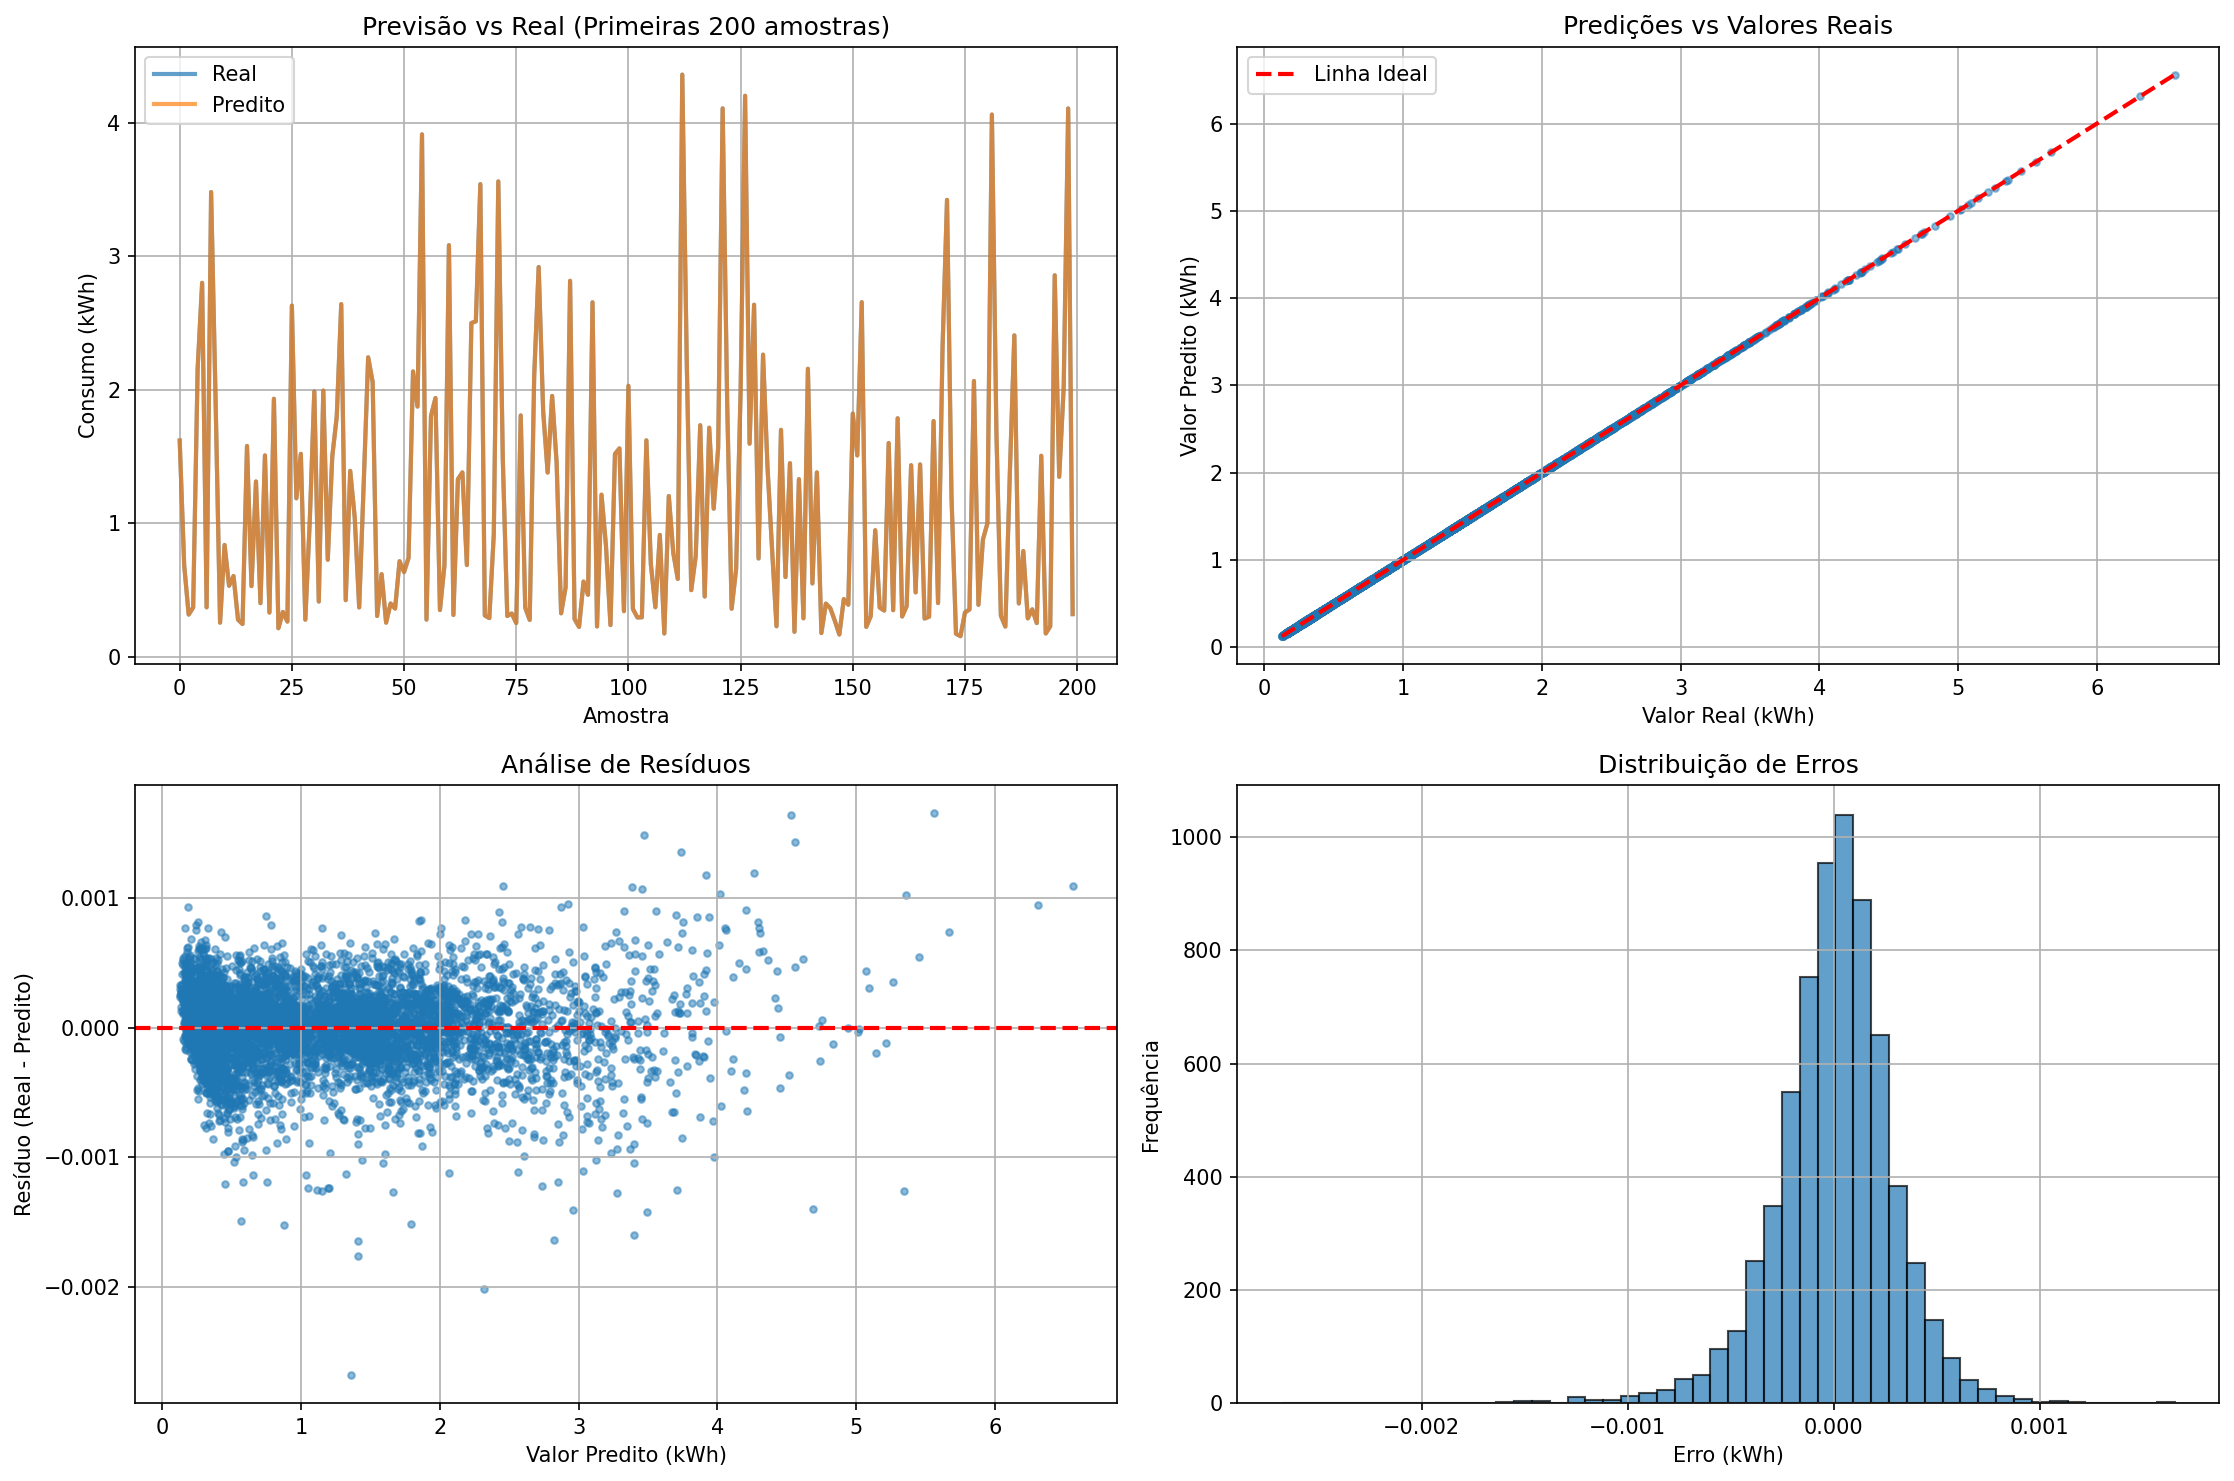
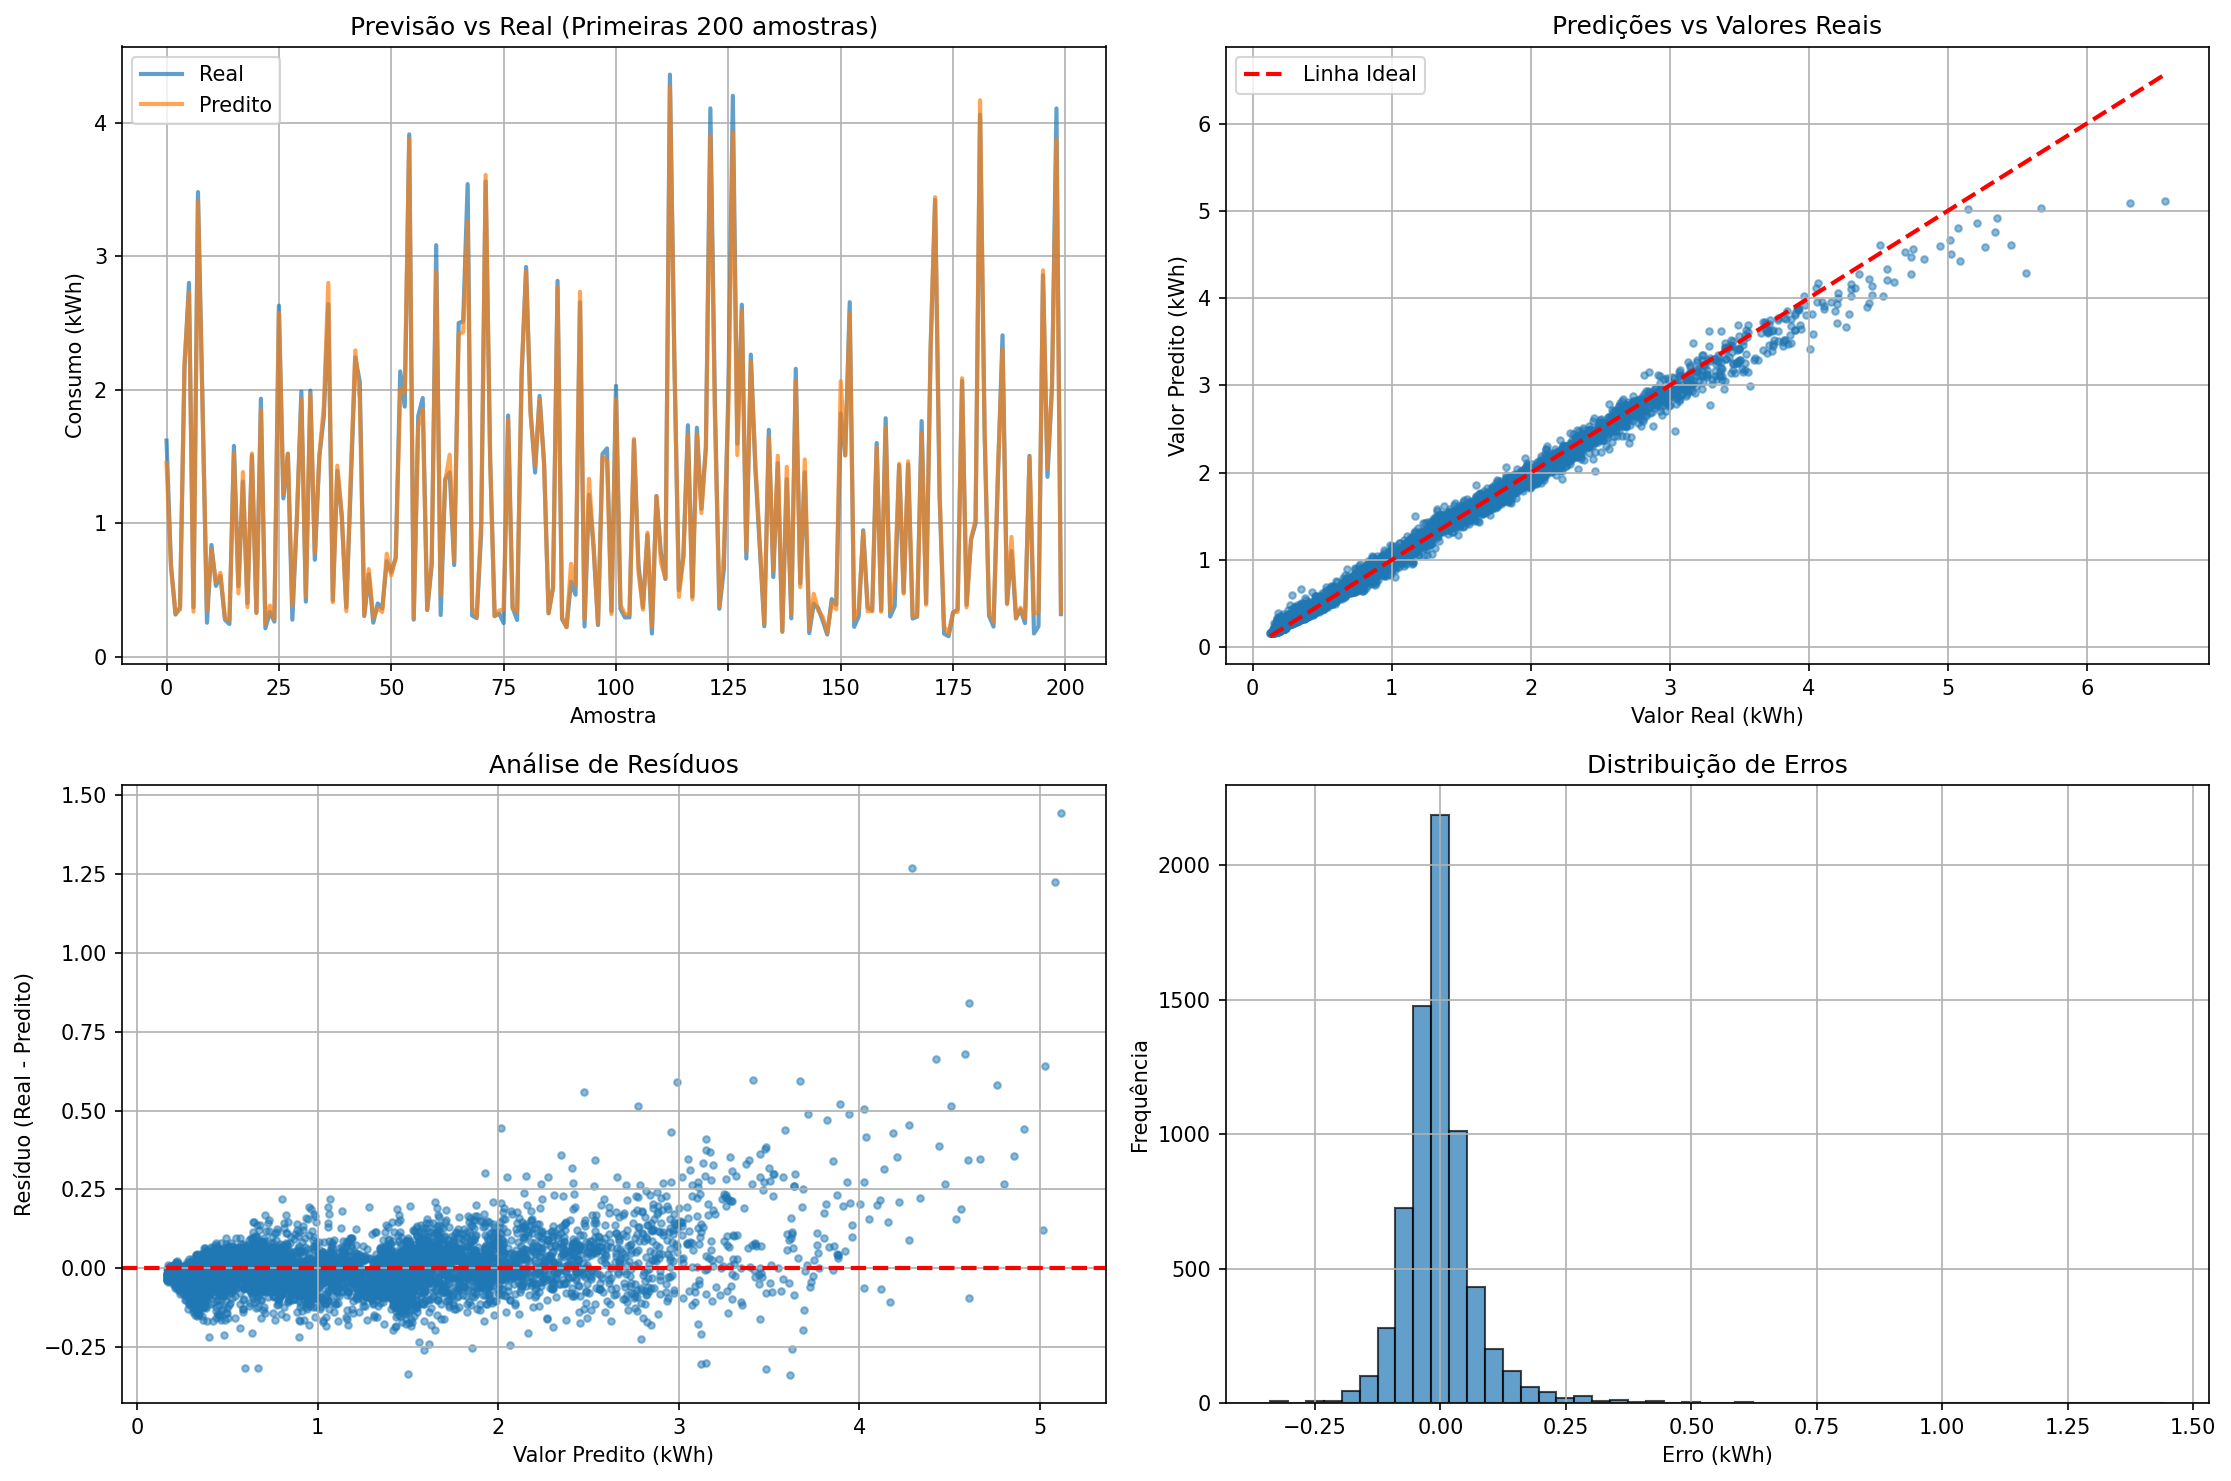
Optimize model for Render deployment
- Reduce RandomForest model size from 789MB to 4.8MB
- Use smaller RF with 50 estimators, max_depth=10
- Implement lazy loading for pandas imports in routes
- Fix import order issue in main.py
- Memory usage: 14.9MB (well under 512MB Render limit)
- Model accuracy maintained: 93.7% (R²=0.9919)

diff --git a/src/model/model.py b/src/model/model.py
@@ -52,17 +52,17 @@ class EnergyRegressionModel:
         """
         models = [
             ('rf', RandomForestRegressor(
-                n_estimators=300,  # Aumentado para melhor acurácia (ainda rápido)
-                max_depth=30,      # Profundidade máxima para capturar padrões complexos
-                min_samples_split=2,  # Mínimo para máxima flexibilidade
-                min_samples_leaf=1,   # Mínimo para máxima flexibilidade
+                n_estimators=50,   # Reduced from 300 to 50 for smaller model
+                max_depth=10,      # Reduced from 30 to 10
+                min_samples_split=5,  # Increased from 2 to 5
+                min_samples_leaf=2,   # Increased from 1 to 2
                 random_state=42,
-                n_jobs=-1,         # Paralelizar máximo para velocidade
+                n_jobs=-1,
                 verbose=0,
                 max_features='sqrt',
                 bootstrap=True,
-                oob_score=False,   # Desabilitado para velocidade
-                warm_start=False   # Desabilitado para velocidade
+                oob_score=False,
+                warm_start=False
             )),
             ('gb', GradientBoostingRegressor(
                 n_estimators=300,  # Aumentado para melhor acurácia
@@ -238,16 +238,16 @@ class EnergyRegressionModel:
                 self.model = self.create_ensemble_model(X_train, y_train)
             elif model_type == 'rf':
                 self.model = RandomForestRegressor(
-                    n_estimators=300,  # Aumentado para melhor acurácia
-                    max_depth=30,      # Profundidade máxima
-                    min_samples_split=2,  # Mínimo para máxima flexibilidade
-                    min_samples_leaf=1,   # Mínimo para máxima flexibilidade
+                    n_estimators=50,   # Reduced from 300 to 50
+                    max_depth=10,      # Reduced from 30 to 10
+                    min_samples_split=5,  # Increased from 2 to 5
+                    min_samples_leaf=2,   # Increased from 1 to 2
                     random_state=42,
-                    n_jobs=-1,         # Paralelizar máximo
+                    n_jobs=-1,
                     verbose=0,
                     max_features='sqrt',
                     bootstrap=True,
-                    oob_score=False    # Desabilitado para velocidade
+                    oob_score=False
                 )
             elif model_type == 'gb':
                 self.model = GradientBoostingRegressor(

diff --git a/src/backend/api/routes.py b/src/backend/api/routes.py
@@ -5,7 +5,6 @@ Endpoints RESTful para o sistema de previsão.
 
 from fastapi import APIRouter, HTTPException, status
 from datetime import datetime
-import pandas as pd
 import os
 import psutil
 import gc
@@ -223,6 +222,7 @@ async def forecast_next_hours(request: ForecastRequest):
                 detail="Dados históricos não encontrados. Execute o treinamento primeiro."
             )
         
+        import pandas as pd
         df = pd.read_csv(historical_path)
         df['timestamp'] = pd.to_datetime(df['timestamp'])
         
@@ -281,6 +281,7 @@ async def get_statistics():
     """
     try:
         # Carregar dados
+        import pandas as pd
         df = pd.read_csv('data/raw/energy_consumption.csv')
         
         stats = {

diff --git a/src/backend/main.py b/src/backend/main.py
@@ -12,9 +12,6 @@ import tracemalloc
 from pathlib import Path
 from typing import Optional
 
-# Configuração inicial para monitoramento de memória
-tracemalloc.start()
-
 # Adicionar diretório raiz ao PYTHONPATH
 project_root = str(Path(__file__).parent.parent.parent)
 if project_root not in sys.path:
@@ -32,6 +29,10 @@ from src.backend.core.logger import setup_logger
 
 # Configurar logger
 logger = setup_logger(__name__)
+
+# Configuração inicial para monitoramento de memória (apenas em desenvolvimento)
+if settings.DEBUG:
+    tracemalloc.start()
 
 # Importar rotas após configuração do logger
 from src.backend.api.routes import router

diff --git a/src/model/train.py b/src/model/train.py
@@ -94,7 +94,7 @@ def compare_models(X_train, y_train, X_test, y_test, preprocessor):
     print("🔍 COMPARANDO DIFERENTES MODELOS DE REGRESSÃO")
     print("="*80)
     
-    models_to_test = ['ensemble', 'rf', 'gb']
+    models_to_test = ['rf']  # Only test RandomForest for smaller model
     results = {}
     
     for model_type in models_to_test:
